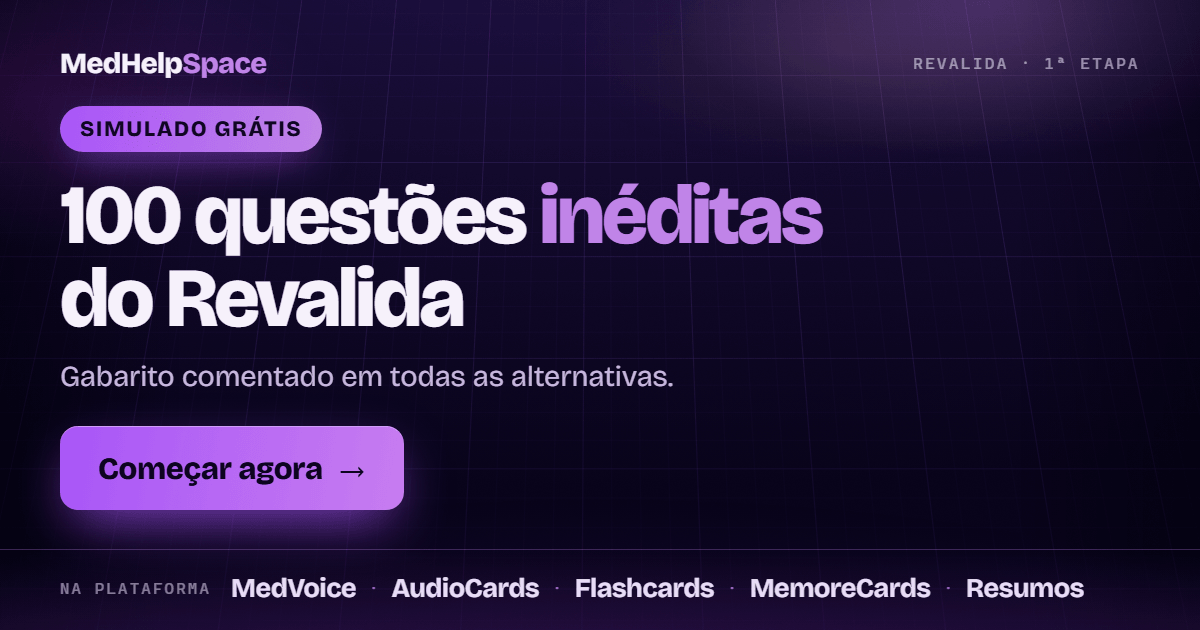
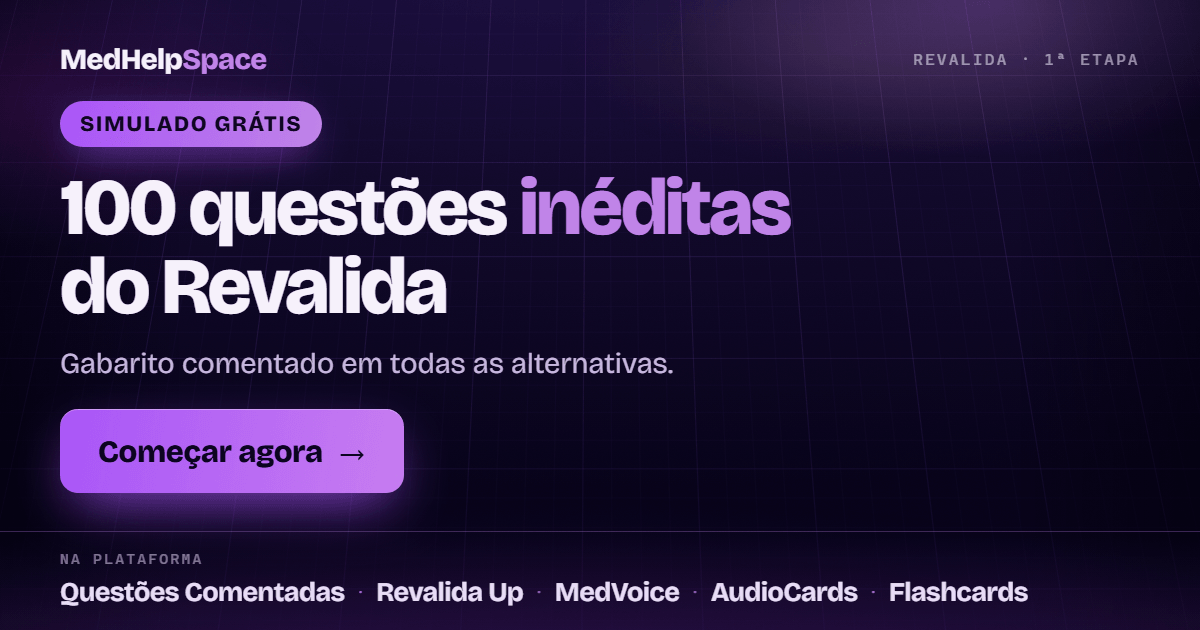
Simulado link-preview: name the five products Karina picked
The card shipped in f3a306d listed MedVoice, AudioCards and Flashcards, chosen
from the funnel's own upsell copy. Karina picked a different set and a different
order: Questões Comentadas, Revalida Up, MedVoice, AudioCards, Flashcards.

Both halves move together. The og/twitter description now reads "Na plataforma:
Questões Comentadas, Revalida Up, MedVoice, AudioCards, Flashcards. Comece
agora." (96 chars — WhatsApp truncates past ~110 and the CTA is the first thing
it drops), and og-simulado-revalida.png's bottom strip lists the same five in the
same order. A card whose picture and text name different products reads as
careless, so treat them as one edit from here on.

The longer names no longer fit beside the "NA PLATAFORMA" label on one line, so
the label moves to its own line above them; the strip still renders legibly at
460px, which is the width WhatsApp actually gives a preview inside a group.

Framing is unchanged and deliberate: these are named as what is on the platform,
never as part of the free offer. This URL lands on a form for the free simulado
and Revalida Up / MedVoice / AudioCards are paid.

diff --git a/app/src/app/simulado-revalida/page.tsx b/app/src/app/simulado-revalida/page.tsx
@@ -37,12 +37,16 @@ import { getActiveCohortOptions } from "@/lib/magnet/simulado";
 // and AudioCards/MedVoice are paid. Naming them as the giveaway would be a promise the
 // landing page does not keep. Same reason "Sem cartão." stays out (Karina, 2026-07-26).
 //
-// Product names match the app's canonical spelling (see components/magnet/platform-peek).
+// The five products and their order are Karina's pick (2026-08-21) and are mirrored
+// exactly in the image's "NA PLATAFORMA" strip — the card and the description must never
+// name different things. Spelling follows the app's canonical names (see
+// components/magnet/platform-peek.tsx).
+//
 // Keep the description at ~110 characters or less — WhatsApp truncates past that and
-// the CTA is the first thing lost.
+// the CTA is the first thing lost. The current string is 96.
 const OG_TITLE = "Faça grátis: simulado Revalida com 100 questões inéditas";
 const OG_DESCRIPTION =
-  "Gabarito comentado alternativa por alternativa. Na plataforma: MedVoice, AudioCards, Flashcards. Comece agora.";
+  "Na plataforma: Questões Comentadas, Revalida Up, MedVoice, AudioCards, Flashcards. Comece agora.";
 const OG_IMAGE = "https://medhelpspace.com.br/og-simulado-revalida.png";
 
 export const metadata: Metadata = {
@@ -64,7 +68,7 @@ export const metadata: Metadata = {
         url: OG_IMAGE,
         width: 1200,
         height: 630,
-        alt: "Simulado gratuito do Revalida com 100 questões inéditas — MedVoice, AudioCards, Flashcards, MemoreCards e Resumos",
+        alt: "Simulado gratuito do Revalida com 100 questões inéditas — Questões Comentadas, Revalida Up, MedVoice, AudioCards e Flashcards",
       },
     ],
   },
